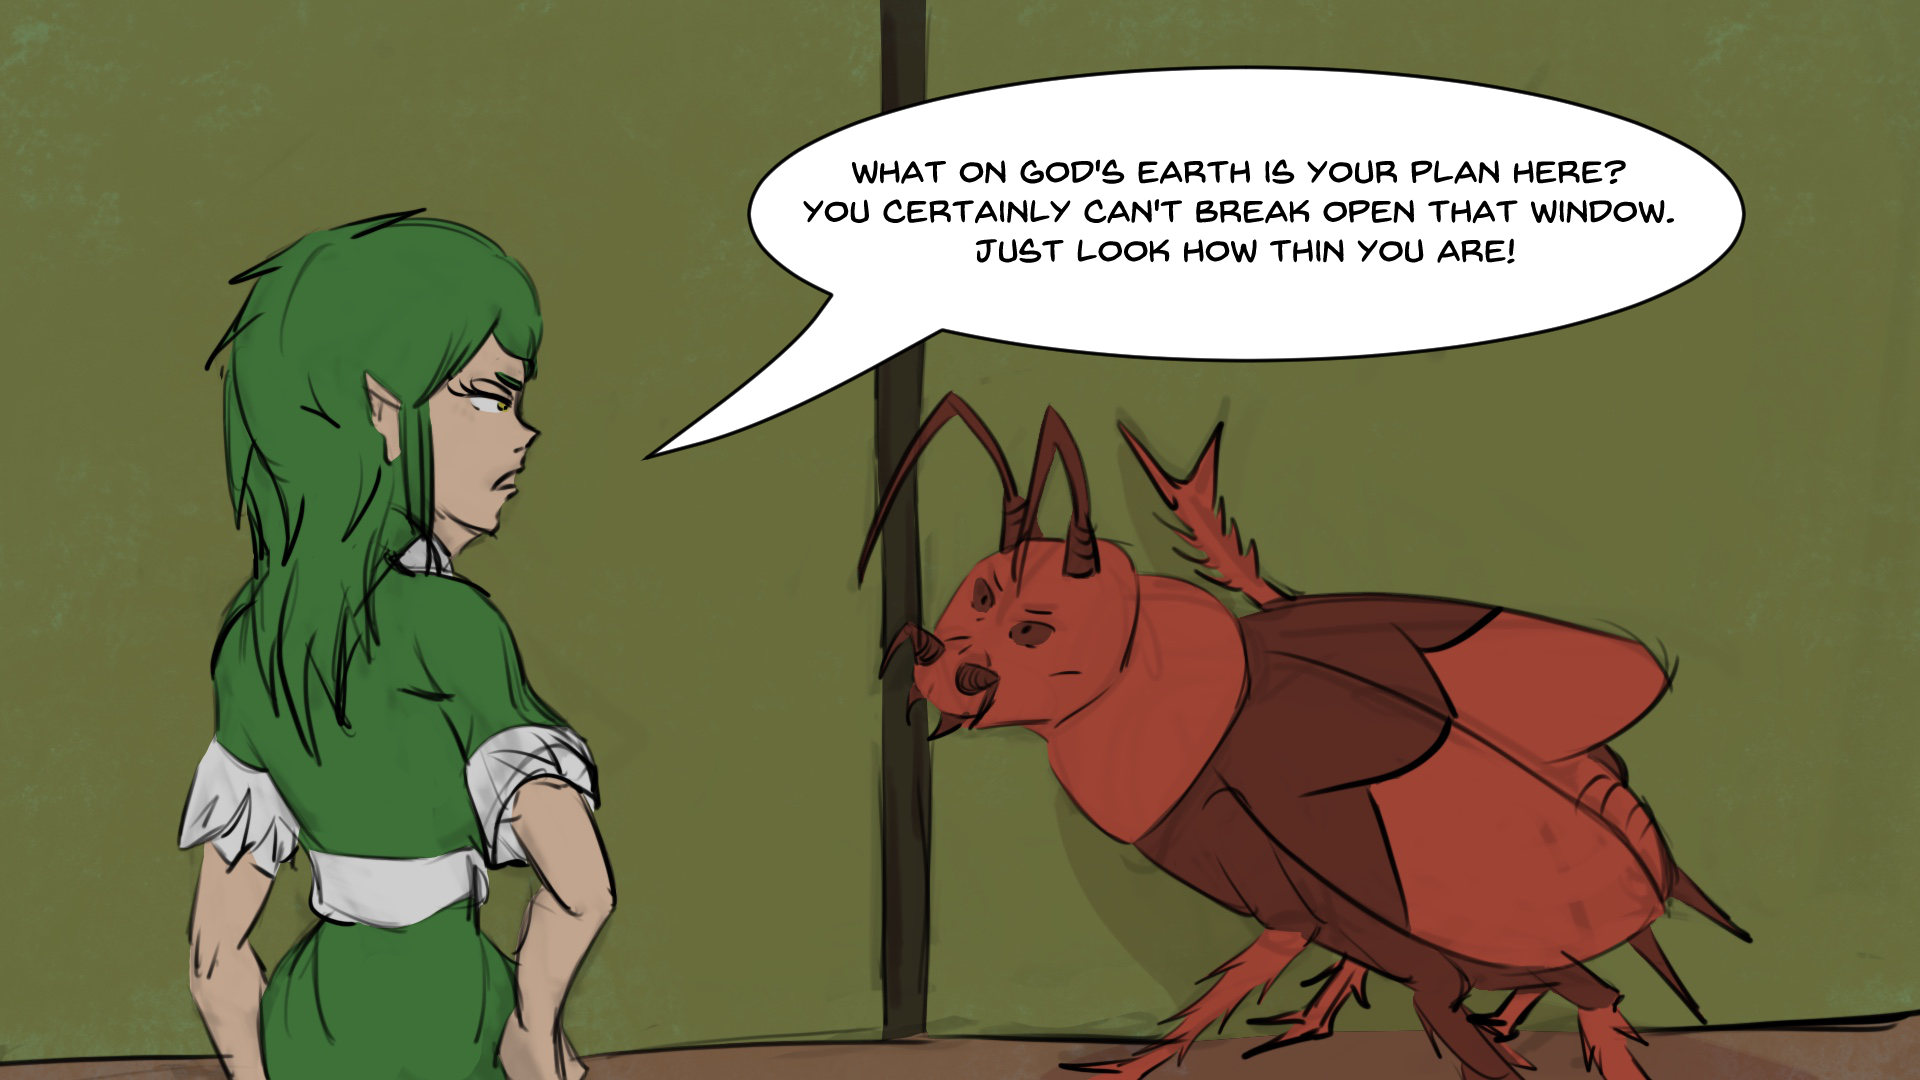
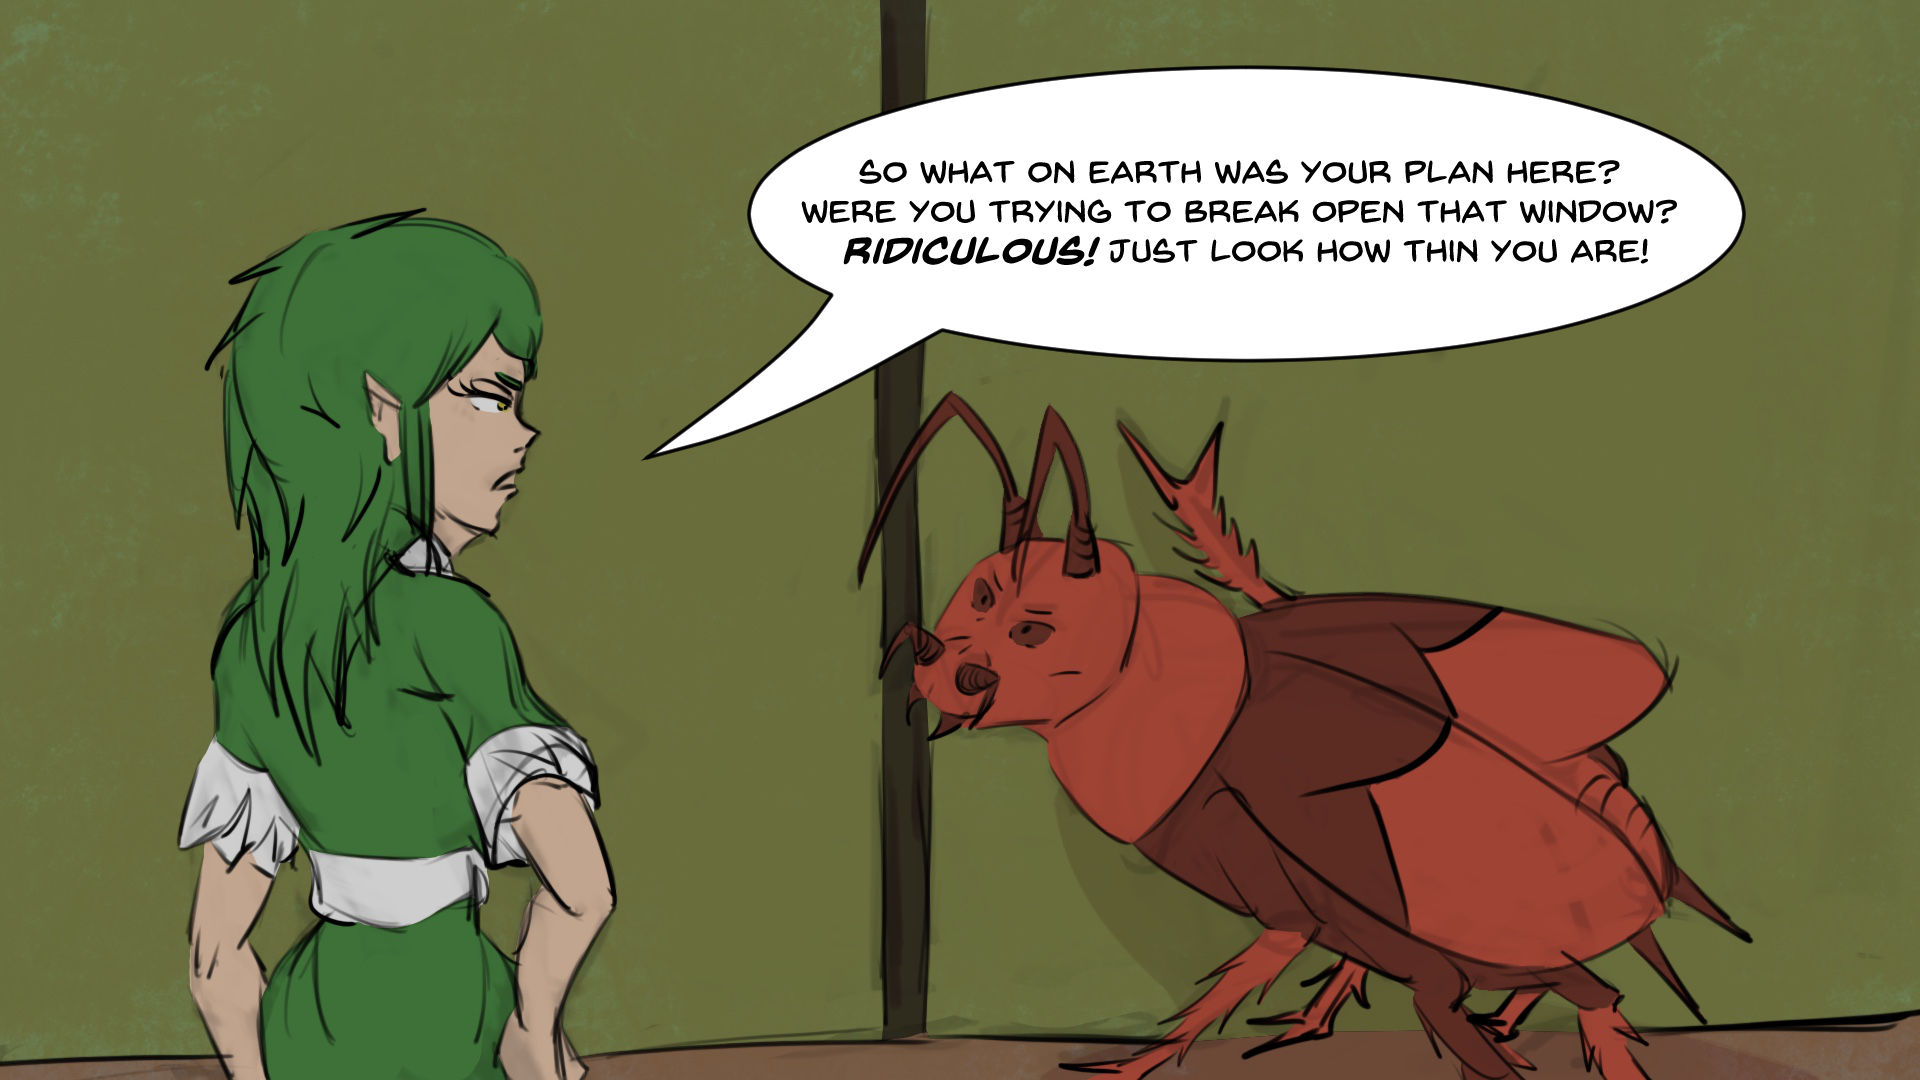
Tonal changes, fixed css as well

Changed region(s): [[0.4062, 0.1528, 0.875, 0.2444]]

diff --git a/metamorphosis/part1.html b/metamorphosis/part1.html
@@ -75,7 +75,7 @@
 
 
 
-	<div class="row expositionHeader">
+	<div class="row fullscreenPanel" id= "intro">
 		<div class="col-md-12 align-self-center text-center">
 			 One morning, as Gregor Samsa was waking up from anxious dreams, <br>
 			 he discovered that in bed he had been changed into a monstrous verminous bug. 
